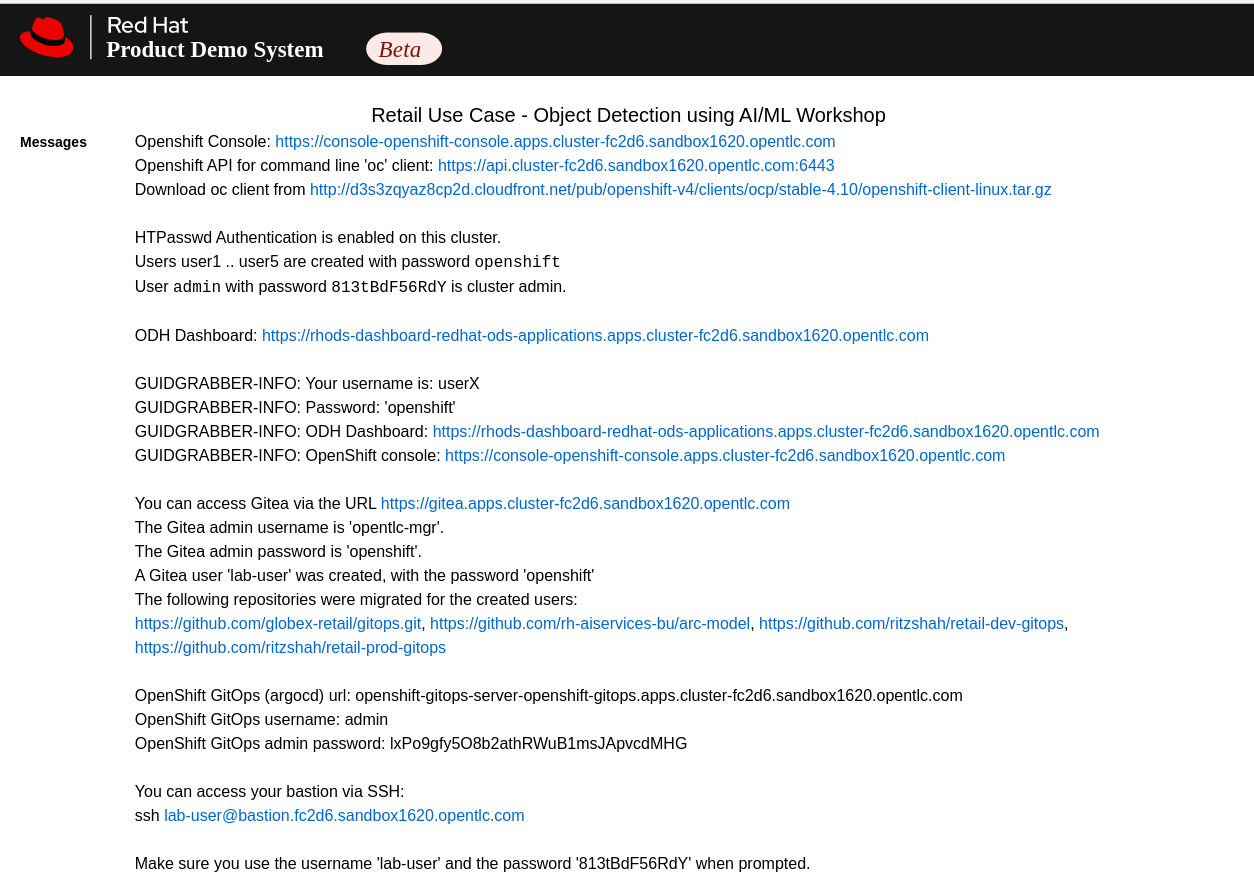
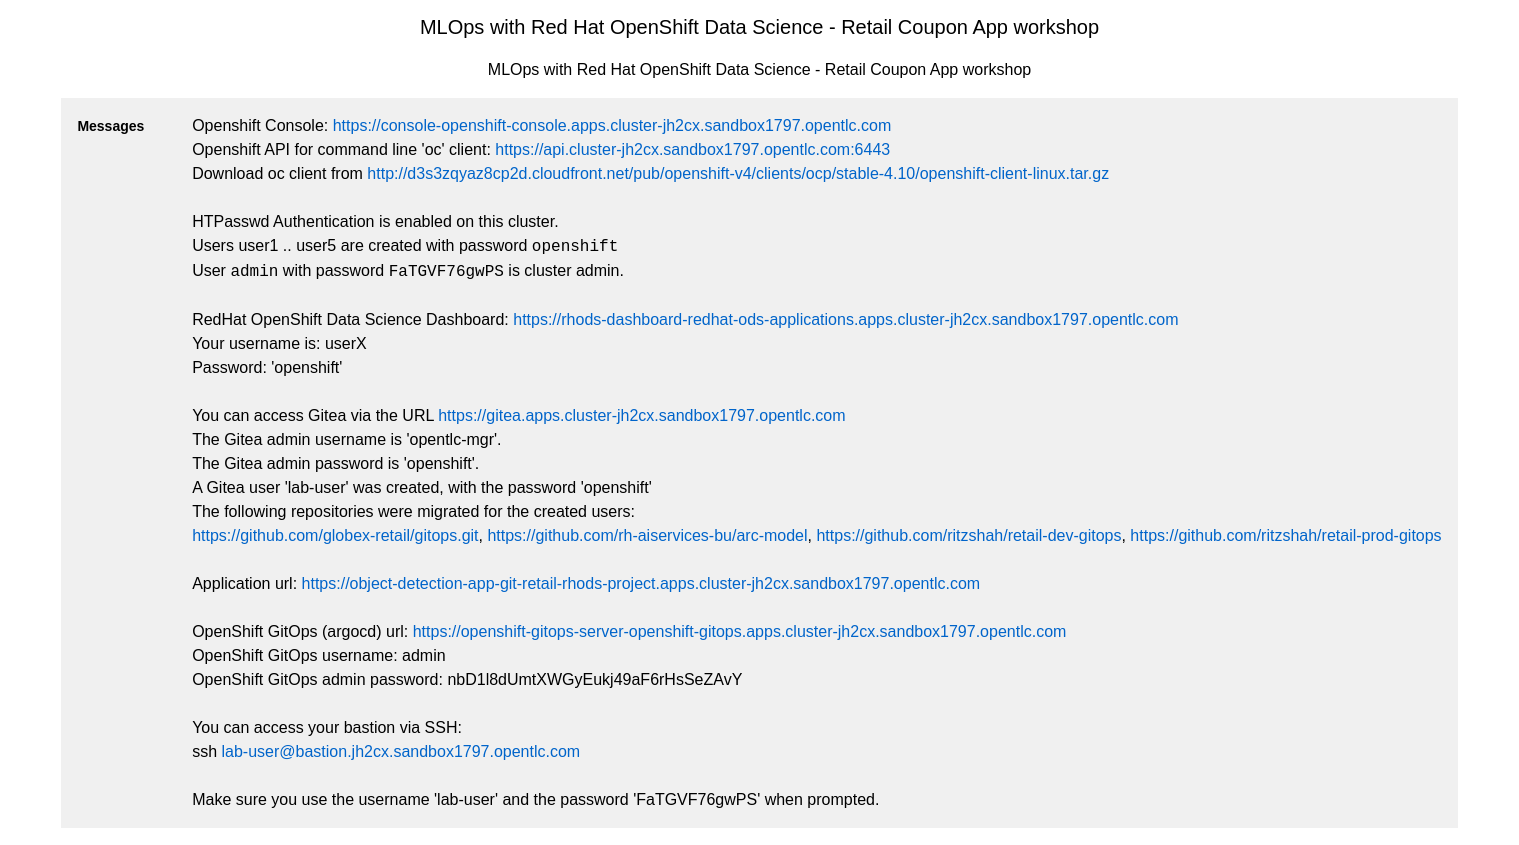
update urls screen, os login, fix #19

diff --git a/attendee_instructions.md b/attendee_instructions.md
@@ -161,7 +161,10 @@ In this environment, an OpenShift pipeline has been configure to automatically r
 
 Our dev app should automatically rebuild since that we've pushed our changes to the git repository.
 
-1. Log into the OpenShift Console
+1. Follow the link to your 'OpenShift Console URL' on your page of URLs.
+1. Log in to OpenShift using the username: `user1` and password: `openshift`
+1. Select `Administrator` view.
+    ![](instructions/select-administrator.png)
 1. Navigate to **Pipelines** , then **Pipelines** (yes, again), and then go to **PipelineRuns**
     ![](instructions/select-pipelines.png)
 1. Make sure that the selected project is **retail-rhods-project**
